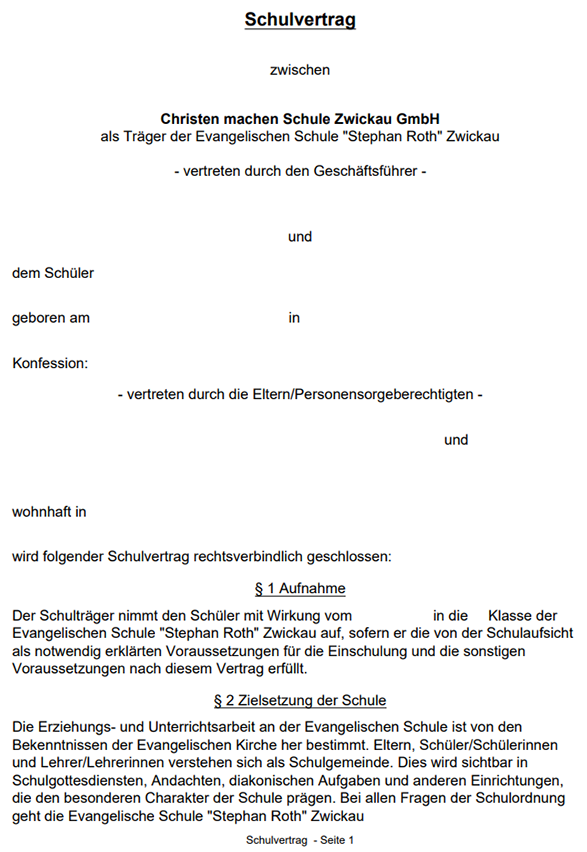
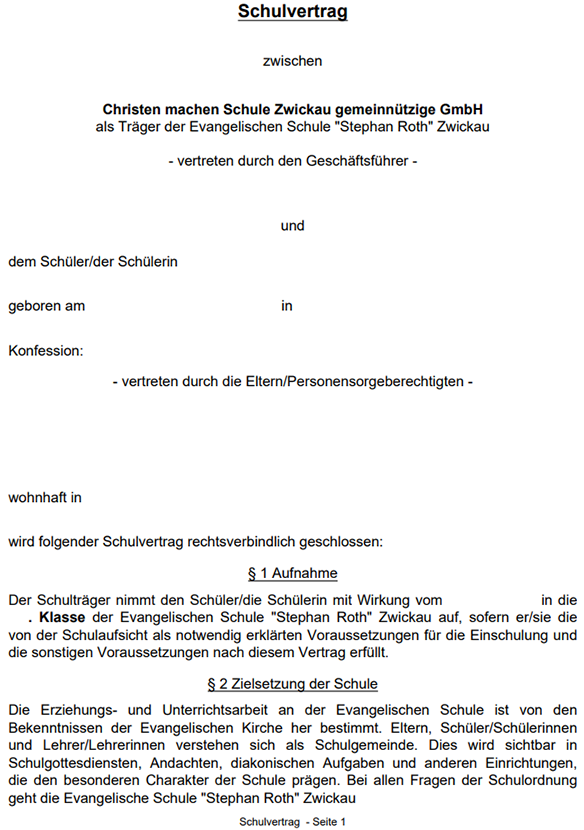
Fix: #SSW-2211 refactor, rerange form, restyle PDF, add new DocumentStyle Justify, redo PreviewPicture

diff --git a/Application/Document/Custom/Zwickau/Zwickau.php b/Application/Document/Custom/Zwickau/Zwickau.php
@@ -31,6 +31,7 @@ use SPHERE\Common\Frontend\Layout\Structure\LayoutRow;
 use SPHERE\Common\Frontend\Link\Repository\External;
 use SPHERE\Common\Frontend\Link\Repository\Standard;
 use SPHERE\Common\Frontend\Table\Structure\TableData;
+use SPHERE\Common\Frontend\Text\Repository\Center;
 use SPHERE\Common\Main;
 use SPHERE\Common\Window\Navigation\Link;
 use SPHERE\Common\Window\Stage;
@@ -166,7 +167,9 @@ class Zwickau extends Extension implements IModuleInterface
             if ($tblProspect) {
                 if(($tblReservation = $tblProspect->getTblProspectReservation())){
                     $Global->POST['Data']['ReservationDivision'] = $tblReservation->getReservationDivision();
-                    $Global->POST['Data']['ReservationDate'] = '01.08.'.substr($tblReservation->getReservationYear(), 0, 4);
+                    if($tblReservation->getReservationYear()){
+                        $Global->POST['Data']['ReservationDate'] = '01.08.'.substr($tblReservation->getReservationYear(), 0, 4);
+                    }
                 }
             }
 
@@ -259,7 +262,7 @@ class Zwickau extends Extension implements IModuleInterface
                                     new LayoutColumn(new Well(
                                         new Layout(
                                             new LayoutGroup(array(
-                                                new LayoutRow(array(
+                                                new LayoutRow(
                                                     new LayoutColumn(
                                                         new TextField('Data[FirstLastName]', 'Vorname, Name',
                                                             'Vorname, Name '.
@@ -269,12 +272,8 @@ class Zwickau extends Extension implements IModuleInterface
                                                                     ? 'der Schülerin'
                                                                     : 'des Schülers/der Schülerin')
                                                             ))
-                                                        , 8),
-                                                    new LayoutColumn(
-                                                        new TextField('Data[Denomination]', 'Konfession',
-                                                            'Konfession')
-                                                        , 4),
-                                                )),
+                                                    , 12)
+                                                ),
                                                 new LayoutRow(array(
                                                     new LayoutColumn(
                                                         new TextField('Data[Birthday]', 'Geboren am',
@@ -285,6 +284,12 @@ class Zwickau extends Extension implements IModuleInterface
                                                             'Geburtsort')
                                                         , 6),
                                                 )),
+                                                new LayoutRow(
+                                                    new LayoutColumn(
+                                                        new TextField('Data[Denomination]', 'Konfession',
+                                                            'Konfession')
+                                                        , 4)
+                                                ),
                                                 new LayoutRow(array(
                                                     new LayoutColumn(
                                                         new TextField('Data[AddressPLZ]', 'Postleitzahl',
@@ -301,12 +306,12 @@ class Zwickau extends Extension implements IModuleInterface
                                                 )),
                                                 new LayoutRow(array(
                                                     new LayoutColumn(
-                                                        new TextField('Data[ReservationDivision]', 'Vorraussichtliche Klasse',
-                                                            'Vorraussichtliche Klasse')
-                                                        , 4),
-                                                    new LayoutColumn(
                                                         new TextField('Data[ReservationDate]', '01.08.XXXX',
                                                             'Vorraussichtlicher Schulbeginn')
+                                                        , 4),
+                                                    new LayoutColumn(
+                                                        new TextField('Data[ReservationDivision]', 'Vorraussichtliche Klasse',
+                                                            'Vorraussichtliche Klasse')
                                                         , 4),
                                                 ))
                                             ))
@@ -321,19 +326,31 @@ class Zwickau extends Extension implements IModuleInterface
                                             new LayoutGroup( array(
                                                 new LayoutRow(array(
                                                     new LayoutColumn(
-                                                        new TextField('Data[SalutationCustody1]', 'Anrede', 'Anrede Sorgeberechtigte(r) 1')
-                                                        , 4),
+                                                        new Center(new Title('1'))
+                                                    , 1),
                                                     new LayoutColumn(
-                                                        new TextField('Data[FirstLastNameCustody1]', 'Name', 'Name Sorgeberechtigte(r) 1')
-                                                        , 8)
+                                                        new TextField('Data[SalutationCustody1]', 'Anrede', 'Anrede')
+                                                    , 4),
+                                                    new LayoutColumn(
+                                                        new TextField('Data[FirstLastNameCustody1]', 'Name', 'Name')
+                                                    , 7)
                                                 )),
+                                            ))
+                                        )
+                                    )),
+                                    new LayoutColumn(new Well(
+                                        new Layout(
+                                            new LayoutGroup( array(
                                                 new LayoutRow(array(
                                                     new LayoutColumn(
-                                                        new TextField('Data[SalutationCustody2]', 'Anrede', 'Anrede Sorgeberechtigte(r) 2')
-                                                        , 4),
+                                                        new Center(new Title('2'))
+                                                    , 1),
                                                     new LayoutColumn(
-                                                        new TextField('Data[FirstLastNameCustody2]', 'Name', 'Name Sorgeberechtigte(r) 2')
-                                                        , 8)
+                                                        new TextField('Data[SalutationCustody2]', 'Anrede', 'Anrede')
+                                                    , 4),
+                                                    new LayoutColumn(
+                                                        new TextField('Data[FirstLastNameCustody2]', 'Name', 'Name')
+                                                    , 7)
                                                 ))
                                             ))
                                         )

diff --git a/Application/Api/Document/Custom/Zwickau/Repository/SchoolContract.php b/Application/Api/Document/Custom/Zwickau/Repository/SchoolContract.php
@@ -74,8 +74,9 @@ class SchoolContract extends AbstractDocument
         $this->FieldValue['Birthplace'] = (isset($DataPost['Birthplace']) && $DataPost['Birthplace'] != '' ? $DataPost['Birthplace'] : '&nbsp;');
 
         // division prepare
-        $this->FieldValue['ReservationDivision'] = (isset($DataPost['ReservationDivision']) && $DataPost['ReservationDivision'] != '' ? $DataPost['ReservationDivision'] : '&nbsp;');
-        $this->FieldValue['ReservationDate'] = (isset($DataPost['ReservationDate']) && $DataPost['ReservationDate'] != '' ? $DataPost['ReservationDate'] : '&nbsp;');
+        $this->FieldValue['ReservationDivision'] = (isset($DataPost['ReservationDivision']) && $DataPost['ReservationDivision'] != '' ? $DataPost['ReservationDivision'] : '&nbsp;&nbsp;&nbsp;&nbsp;&nbsp;');
+        $this->FieldValue['ReservationDate'] = (isset($DataPost['ReservationDate']) && $DataPost['ReservationDate'] != '' ? $DataPost['ReservationDate']
+            : '&nbsp;&nbsp;&nbsp;&nbsp;&nbsp;&nbsp;&nbsp;&nbsp;&nbsp;&nbsp;&nbsp;&nbsp;&nbsp;&nbsp;&nbsp;&nbsp;&nbsp;&nbsp;&nbsp;&nbsp;&nbsp;&nbsp;');
 
         // custody
         $this->FieldValue['SalutationCustody1'] = (isset($DataPost['SalutationCustody1']) && $DataPost['SalutationCustody1'] != '' ? $DataPost['SalutationCustody1'] : '&nbsp;');
@@ -156,7 +157,7 @@ class SchoolContract extends AbstractDocument
                             )
                             ->addSection((new Section())
                                 ->addElementColumn((new Element())
-                                    ->setContent('Christen machen Schule Zwickau GmbH')
+                                    ->setContent('Christen machen Schule Zwickau gemeinnützige GmbH')
                                     ->styleTextSize(self::TEXT_SIZE)
                                     ->styleTextBold()
                                     ->styleAlignCenter()
@@ -202,11 +203,12 @@ class SchoolContract extends AbstractDocument
                                             {% endif %}
                                             ')
                                             ->styleTextSize(self::TEXT_SIZE)
-                                            , '40%')
+                                        , '40%')
                                         ->addElementColumn((new Element())
                                             ->setContent($this->FieldValue['FirstLastName'])
                                             ->styleTextSize(self::TEXT_SIZE)
-                                            , '60%')
+                                            ->styleTextBold()
+                                        , '60%')
                                     )
                                     ->stylePaddingBottom('30px')
                                 )
@@ -325,12 +327,13 @@ class SchoolContract extends AbstractDocument
                             ->addSection((new Section())
                                 ->addElementColumn((new Element())
                                     ->setContent('Der Schulträger nimmt '.$this->FieldValue['ProspectCall'].' mit Wirkung 
-                                    vom '.$this->FieldValue['ReservationDate'].' in die '.$this->FieldValue['ReservationDivision'].'.
-                                    Klasse der Evangelischen Schule "Stephan Roth" Zwickau auf, sofern '.$this->FieldValue['ProspectCallShort'].'
+                                    vom <b>'.$this->FieldValue['ReservationDate'].'</b> in die <b>'.$this->FieldValue['ReservationDivision'].'.
+                                    Klasse</b> der Evangelischen Schule "Stephan Roth" Zwickau auf, sofern '.$this->FieldValue['ProspectCallShort'].'
                                     die von der Schulaufsicht als notwendig erklärten Voraussetzungen für die 
                                     Einschulung und die sonstigen Voraussetzungen nach diesem Vertrag erfüllt.')
                                     ->styleTextSize(self::TEXT_SIZE)
                                     ->stylePaddingBottom('15px')
+                                    ->styleAlignJustify()
                                 )
                             )
                             ->addSection((new Section())
@@ -352,6 +355,7 @@ class SchoolContract extends AbstractDocument
                                     der Schulordnung geht die Evangelische Schule "Stephan Roth" Zwickau')
                                     ->styleTextSize(self::TEXT_SIZE)
                                     ->stylePaddingBottom('10px')
+                                    ->styleAlignJustify()
                                 )
                             )
                             ->addSection((new Section())

diff --git a/Application/Document/Generator/Repository/Style.php b/Application/Document/Generator/Repository/Style.php
@@ -271,6 +271,17 @@ abstract class Style extends Extension
     }
 
     /**
+     * @return $this
+     */
+    public function styleAlignJustify()
+    {
+
+//        $this->Design[] = 'Align Justify';
+        $this->Style[] ='text-align: justify !important;';
+        return $this;
+    }
+
+    /**
      * @param string $Height
      *
      * @return $this
